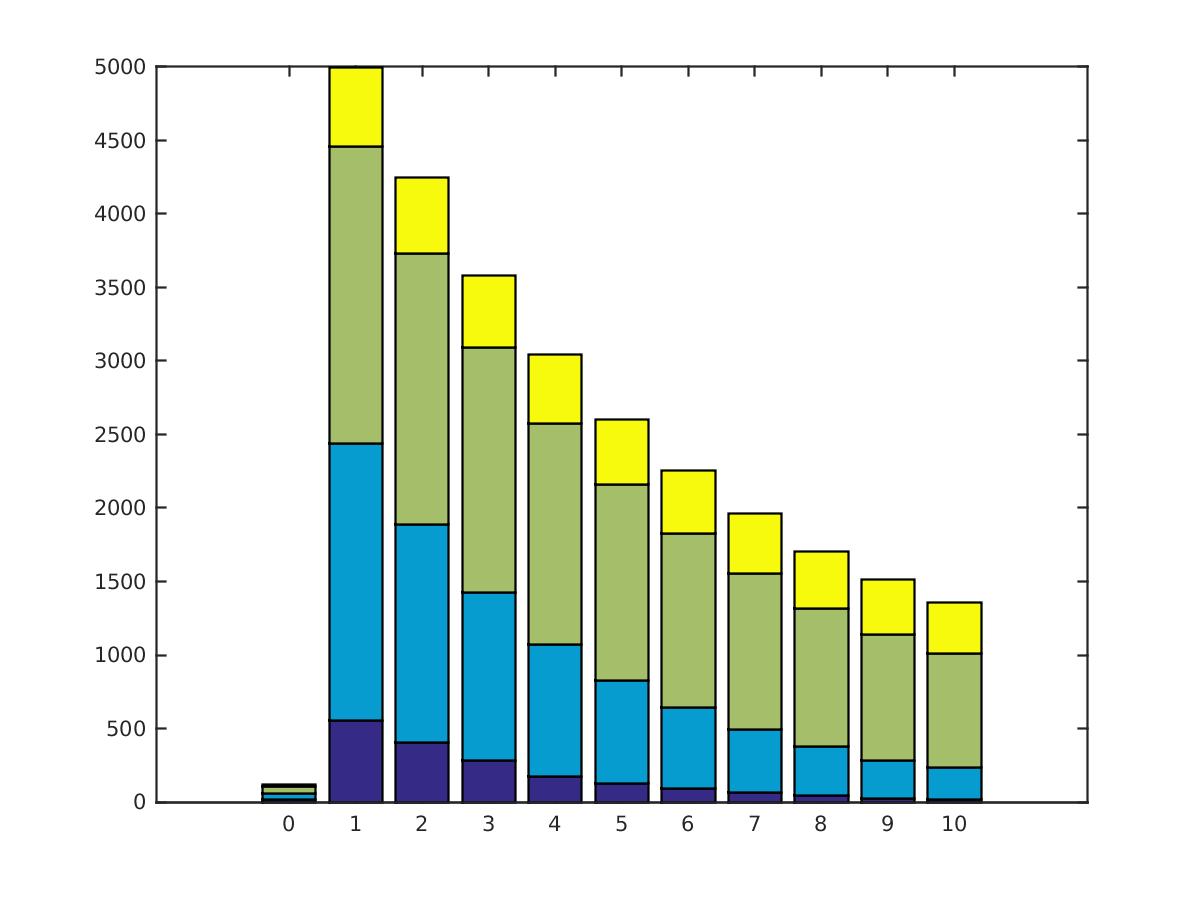
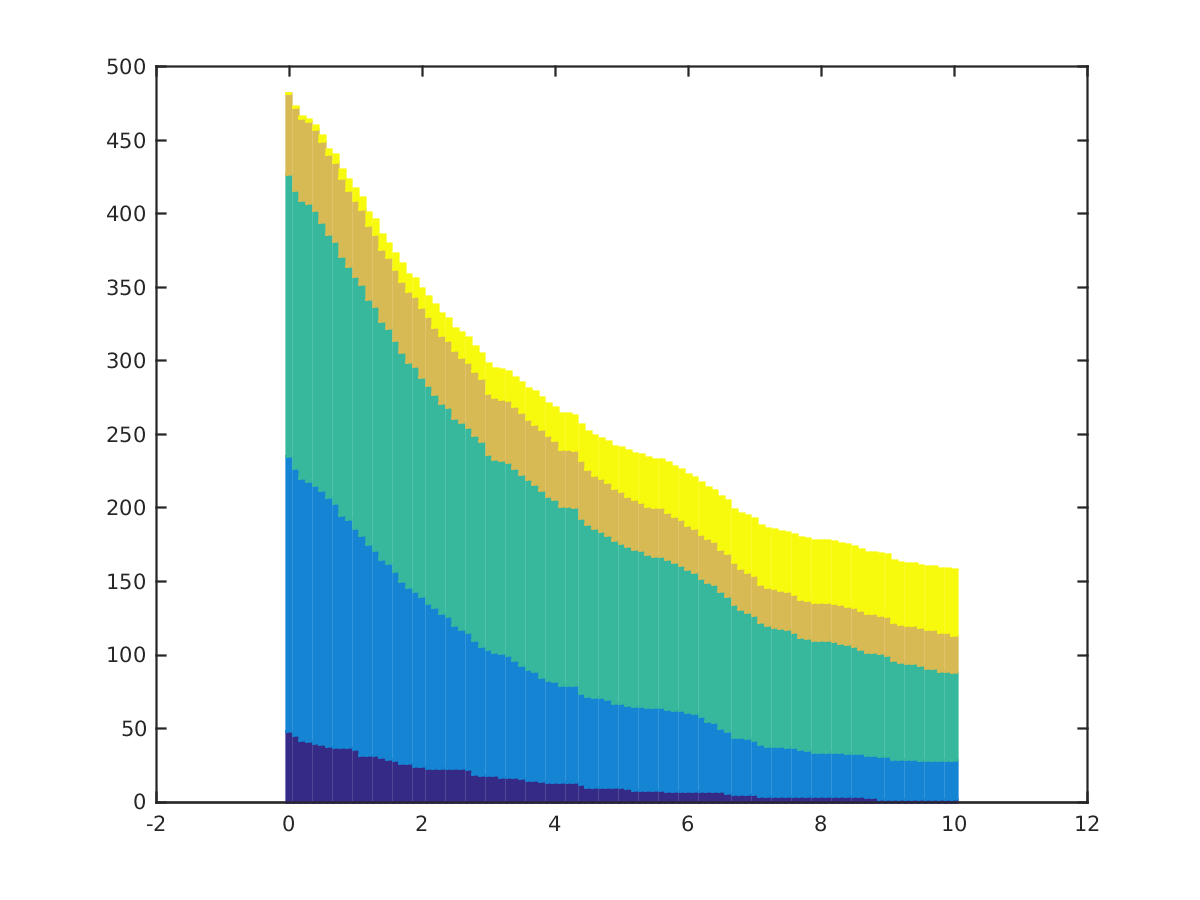
Sigh...

diff --git a/models/spread.m b/models/spread.m
@@ -4,7 +4,8 @@ vaccines = 4000;
 ithaca_pop = ithaca_pop/10;
 vaccines = vaccines/10;
 
-init_sick = ithaca_pop/50;
+% init_sick = ithaca_pop/50;
+init_sick = 500;
 
 % Census data for age ranges
 num_children  = ithaca_pop/10;
@@ -32,64 +33,69 @@ for i = 1:ithaca_pop
   end
 end
 
-% if ~(exist('mapping.mat','file') == 2)
-%   for i = 1:length(citizens)
-%     mapping{i} = ones(1, citizens(i).connectivity);
-%     while length(citizens(i).connections) < citizens(i).connectivity
-%       random_citizen = round(rand*(ithaca_pop -1)) + 1;
-%       if length(citizens(random_citizen)) < citizens(random_citizen).connectivity
-%         citizens(random_citizen).connections(length(citizens(random_citizen))) = citizens(i).findobj;
-%         citizens(i).connections(length(citizens(i).connections) + 1) = citizens(random_citizen).findobj;
-%         mapping{i}(length(citizens(i).connections)) = random_citizen;
-%       end
-%     end
-%   end
+for c = citizens(round(rand(1,init_sick)*(ithaca_pop -1)) + 1)
+  c.is_sick = true;
+end
 
-%   save 'mapping.mat' mapping;
-% else
-%   load 'mapping.mat';
-%   for i = 1:length(mapping)
-%     for n = 1:length(mapping{i})
-%       citizens(i).connections(n) = citizens(mapping{i}(n)).findobj;
-%     end
-%   end
-% end
+deltas = 10;
+months = 10;
+sick_per_delta = zeros(1 + months*deltas, 5);
 
-disp('Finished creating network.')
+for c = citizens
+  if c.is_sick
+    sick_per_delta(1, c.age) = sick_per_delta(1, c.age) + 1;
+  end
+end
 
-% for i = 1:init_sick
-%   random_citizen = round(rand*(ithaca_pop -1)) + 1;
-%   citizens(random_citizen).is_sick = true;
-% end
+disp('Starting simulation');
 
-% months = 10;
-% sick_per_month = zeros(months + 1, 4);
+for d = 1:months*deltas
+  if ~mod(d, deltas)
+    disp(sprintf('Month: %d',d/deltas));
+  end
+  vaccinated = 0;
+  while vaccinated ~= (vaccines/deltas)
+    random_citizen = round(rand*(ithaca_pop -1)) + 1;
+    if ~citizens(random_citizen).is_sick
+      citizens(random_citizen).is_vaccinated = true;
+      vaccinated = vaccinated + 1;
+    end
+  end
+  for citizen = citizens
+    if citizen.is_sick
+      if rand < (citizen.heal_chance/deltas)
+        citizen.is_sick = false;
+        citizen.was_sick = true;
+      elseif rand < (citizen.comp_chance/deltas)
+        citizen.is_sick = false;
+        citizen.is_hospitalized = true;
+      else
+        for c = citizens(round(rand(1,citizen.connectivity)*(ithaca_pop -1)) + 1)
+          % if ~c.is_vaccinated && ~c.was_sick && ~c.is_sick
+          c.become_sick = c.become_sick || 1;% rand < (1/deltas);
+          % end
+        end
+      end
+    end
+  end
+  for c = citizens
+    if citizen.become_sick
+      disp('infect')
+      citizen.is_sick = true;
+      citizen.become_sick = false;
+    end
+  end
+  for c = citizens
+    if c.is_sick
+      sick_per_delta(d+1, c.age) = sick_per_delta(d+1, c.age) + 1;
+    elseif c.is_hospitalized
+      sick_per_delta(d+1, 5) = sick_per_delta(d+1, 5) + 1;
+    end
+  end
+end
 
-% for c = citizens
-%   if c.is_sick
-%     sick_per_month(1, c.age) = sick_per_month(1, c.age) + 1;
-%   end
-% end
+disp('Plotting')
 
-% for d = 1:months
-%   vaccinated = 0;
-%   while vaccinated ~= vaccines
-%     random_citizen = round(rand*(ithaca_pop -1)) + 1;
-%     if ~citizens(random_citizen).is_sick
-%       citizens(random_citizen).is_vaccinated = true;
-%       vaccinated = vaccinated + 1;
-%     end
-%   end
-%   for citizen = citizens
-%     citizen.step();
-%   end
-%   for c = citizens
-%     if c.is_sick
-%       sick_per_month(d+1, c.age) = sick_per_month(d+1, c.age) + 1;
-%     end
-%   end
-% end
-
-% f = figure('units', 'normalized', 'outerposition', [0 0 1 1]);
-% bar(0:months,sick_per_month, 'stacked');
-% saveas(f, 'Monthly sick', 'png');
+f = figure('units', 'normalized', 'outerposition', [0 0 1 1]);
+bar(0:(1/deltas):months, sick_per_delta, 'stacked');
+saveas(f, 'Monthly sick', 'png');

diff --git a/models/Person.m b/models/Person.m
@@ -8,7 +8,7 @@ classdef Person < handle
     heal_chance       % Chance to heal after a given day
     comp_chance       % Chance of complications due to sickness
     connectivity      % Number of people exposed to in a given day
-    connections = Person.empty(0) % People connected to (length(connections) == connectivity)
+    become_sick = false
   end
 
   methods
@@ -16,40 +16,24 @@ classdef Person < handle
       this.age = age;
       switch age
         case 1
-          this.comp_chance = 0.2;
-          this.connectivity = 100;
+          this.comp_chance = 0.1;
+          this.connectivity = 175;
           this.heal_chance = 0.3;
         case 2
-          this.comp_chance = 0.1;
+          this.comp_chance = 0.05;
           this.connectivity = 200;
           this.heal_chance = 0.2;
         case 3
-          this.comp_chance = 0.3;
+          this.comp_chance = 0.2;
           this.connectivity = 150;
           this.heal_chance = 0.1;
         case 4
-          this.comp_chance = 0.7;
-          this.connectivity = 100;
+          this.comp_chance = 0.4;
+          this.connectivity = 75;
           this.heal_chance = 0.05;
       end
+      % this.connectivity = this.connectivity * 2;
+      this.comp_chance = this.comp_chance / 10;
     end
-
-    function step(self)
-      if self.is_sick
-        if rand < self.heal_chance
-          self.is_sick = false;
-          self.was_sick = true;
-        elseif rand < self.comp_chance
-          self.is_hospitalized = true;
-        else
-          for citizen = self.connections
-            if and(~citizen.is_vaccinated, and(~citizen.was_sick, ~citizen.is_sick))
-              citizen.is_sick = rand < 0.25; % randomly infect connection
-            end
-          end
-        end
-      end
-    end
-
   end
 end
